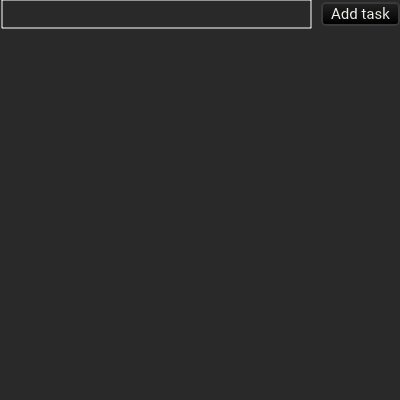
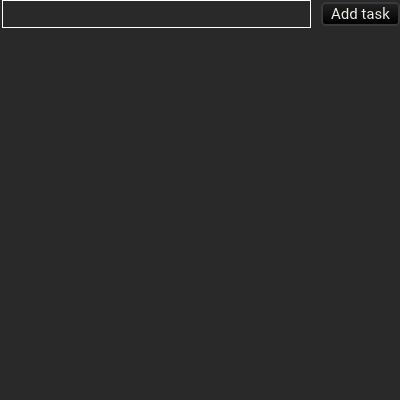
Change how textbox is rendered
Correctly interpret the border width.

Changed region(s): [[0.0, 0.0, 0.78, 0.09]]

diff --git a/masonry/src/widgets/textbox.rs b/masonry/src/widgets/textbox.rs
@@ -163,14 +163,15 @@ impl Widget for Textbox {
 
     fn paint(&mut self, ctx: &mut PaintCtx, _props: &PropertiesRef<'_>, scene: &mut Scene) {
         let size = ctx.size();
+        let border_width = 1.0;
         let outline_rect = size.to_rect().inset(Insets::new(
-            -TEXTBOX_MARGIN.leading,
-            -TEXTBOX_MARGIN.top,
-            -TEXTBOX_MARGIN.trailing,
-            -TEXTBOX_MARGIN.bottom,
+            -TEXTBOX_MARGIN.leading - border_width / 2.,
+            -TEXTBOX_MARGIN.top - border_width / 2.,
+            -TEXTBOX_MARGIN.trailing - border_width / 2.,
+            -TEXTBOX_MARGIN.bottom - border_width / 2.,
         ));
         scene.stroke(
-            &Stroke::new(1.0),
+            &Stroke::new(border_width),
             Affine::IDENTITY,
             Color::WHITE,
             None,
